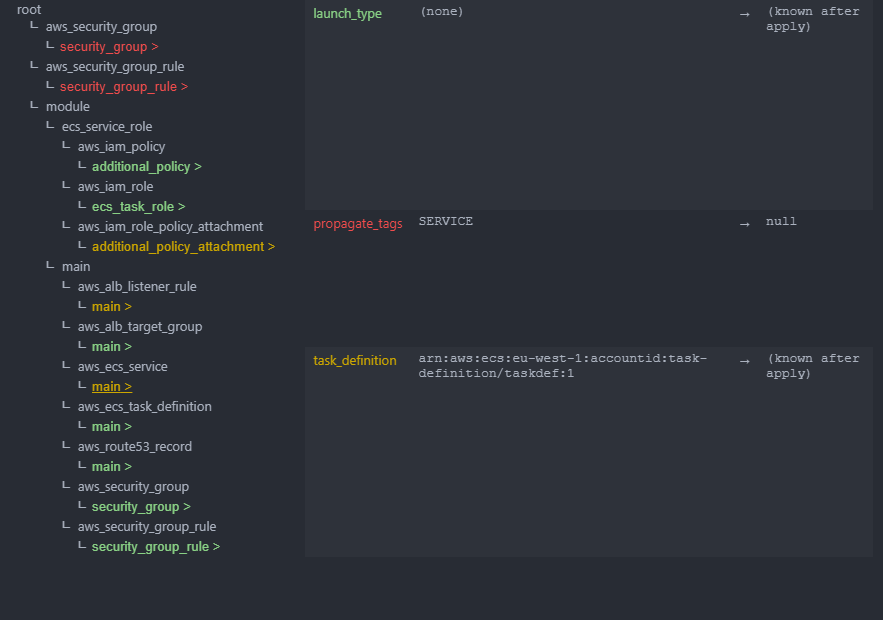
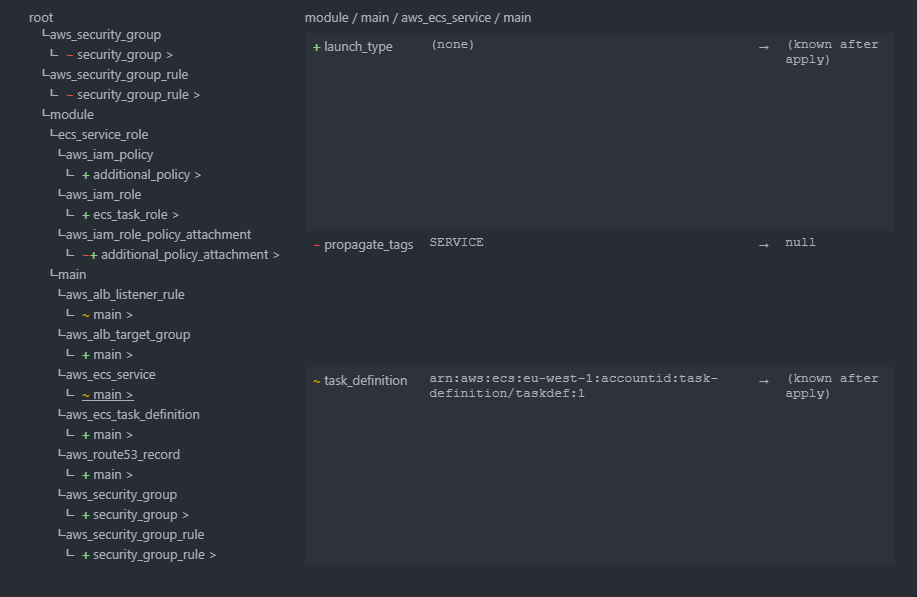
Show symbols for create/update/delete actions

diff --git a/src/editors/graph.tsx b/src/editors/graph.tsx
@@ -62,8 +62,8 @@ export class GraphEditor implements vscode.CustomTextEditorProvider {
     return (
       <li>
         {tree.diff ? (
-          <label htmlFor={encodeURIComponent(tree.diff.address)} className={tree.diff.action}>
-            {tree.label}
+          <label htmlFor={encodeURIComponent(tree.diff.address)}>
+            {this.renderActions(tree.diff.actions)} {tree.label}
           </label>
         ) : (
           tree.label
@@ -91,7 +91,9 @@ export class GraphEditor implements vscode.CustomTextEditorProvider {
               <tbody>
                 {tree.diff.changes.map((change) => (
                   <tr key={change.key}>
-                    <td className={change.action}>{change.key}</td>
+                    <td className="nowrap">
+                      {this.renderActions([change.action])} {change.key}
+                    </td>
                     <td>
                       <pre>{change.before}</pre>
                     </td>
@@ -109,5 +111,19 @@ export class GraphEditor implements vscode.CustomTextEditorProvider {
           children.map((child, key) => <Fragment key={key}>{this.renderTables(child)}</Fragment>)}
       </>
     )
+  }
+
+  renderActions(actions: string[]) {
+    const actionSymbol: Record<string, string> = {
+      create: '+',
+      update: '~',
+      delete: '-',
+    }
+
+    return actions.map((action) => (
+      <span key={action} className={action}>
+        {actionSymbol[action]}
+      </span>
+    ))
   }
 }

diff --git a/src/utils/diff.ts b/src/utils/diff.ts
@@ -2,7 +2,7 @@ import { IDiff, IResource } from '../models'
 import isEqual = require('lodash.isequal')
 
 export function getDiff(resource: IResource): IDiff {
-  const diff: IDiff = { address: resource.address, action: resource.change.actions.join('-'), changes: [] }
+  const diff: IDiff = { address: resource.address, actions: resource.change.actions, changes: [] }
   resource.change.before = resource.change.before || {}
   resource.change.after = resource.change.after || {}
   for (const key of Object.keys(resource.change.after_unknown)) {

diff --git a/public/style.css b/public/style.css
@@ -10,7 +10,7 @@ ul {
   list-style-type: none;
 }
 
-ul li span {
+ul li > :first-child {
   padding-left: 0.5rem;
 }
 
@@ -70,16 +70,25 @@ table td pre {
   margin: 0;
 }
 
+.create,
+.update,
+.delete {
+  font-family: monospace;
+  font-weight: bold;
+}
+
 .create {
   color: var(--vscode-charts-green);
+}
+
+.update {
+  color: var(--vscode-charts-yellow);
 }
 
 .delete {
   color: var(--vscode-charts-red);
 }
 
-.update,
-.delete-create,
-.create-delete {
-  color: var(--vscode-charts-yellow);
+.nowrap {
+  white-space: nowrap;
 }

diff --git a/src/models.ts b/src/models.ts
@@ -17,7 +17,7 @@ export interface IResource {
 
 export interface IDiff {
   address: string
-  action: string
+  actions: string[]
   changes: {
     key: string
     action: string
